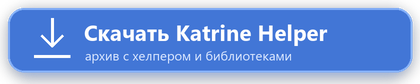
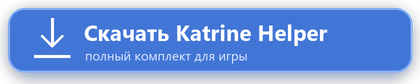
Add files via upload

Changed region(s): [[0.1857, 0.5952, 0.7119, 0.7619]]

diff --git a/README.md b/README.md
@@ -63,11 +63,7 @@
 </p><p align="center">
   <a href="https://i.postimg.cc/fLNffN1C/sa-mp-0000100.png"><img width="900" src="https://i.postimg.cc/fLNffN1C/sa-mp-0000100.png" alt="Фон Альтушка риал лайф."></a>
   <br><em>Фон Альтушка риал лайф.</em>
-</p></details><h2>Установка</h2><p align="center"><img width="1000" src="docs/install.png" alt="Установка за три шага"></p><ol>
-<li>Нажми кнопку <strong>Скачать</strong>. Загрузится архив <strong>KatrineHelper.zip</strong>.</li>
-<li>Открой архив и перетащи папку <strong>moonloader</strong> в папку с игрой, туда где лежит gta_sa.exe. Если спросит про замену файлов, соглашайся.</li>
-<li>Зайди в игру и введи <strong>/kh</strong>. Хелпер сам предложит короткое обучение и скачает базу законов.</li>
-</ol><p>В архиве сам хелпер и две библиотеки, без которых он не запустится: mimgui и SAMP.Lua. Нужны только MoonLoader и SAMPFUNCS, они есть в большинстве сборок. Если хелпер у тебя уже стоит, ничего качать не надо, он обновляется сам.</p><p align="center"><a href="https://github.com/qqwekky/KatrineHelper/raw/main/KatrineHelper.zip"><img width="420" src="docs/download.png" alt="Скачать Katrine Helper"></a></p><h2>Команды</h2><ul>
+</p></details><h2>Установка</h2><p align="center"><img width="1000" src="docs/install.png" alt="Установка за три шага"></p><p><strong>Закинь содержимое архива в корень игры с заменой.</strong> Корень игры это папка, где лежит gta_sa.exe. Потом зайди в игру и введи <strong>/kh</strong>.</p><p>Основные компоненты:<br>MoonLoader v.027.0 preview3<br>SAMPFUNCS v5.7.1 для SA-MP 0.3.7 R1</p><p>Библиотеки:<br>mimgui, samp.events, encoding, vkeys, luasocket, luasec</p><p>Если хелпер у тебя уже стоит, ничего качать не надо, он обновляется сам.</p><p align="center"><a href="https://github.com/qqwekky/KatrineHelper/raw/main/KatrineHelper.zip"><img width="420" src="docs/download.png" alt="Скачать Katrine Helper"></a></p><h2>Команды</h2><ul>
 <li><strong>/kh</strong> Открывает меню.</li>
 <li><strong>/ask</strong> Задаёт вопрос ИИ. Вопрос можно написать сразу после команды.</li>
 <li><strong>/laws</strong> Открывает поиск по законам. Можно сразу указать номер статьи или текст.</li>
